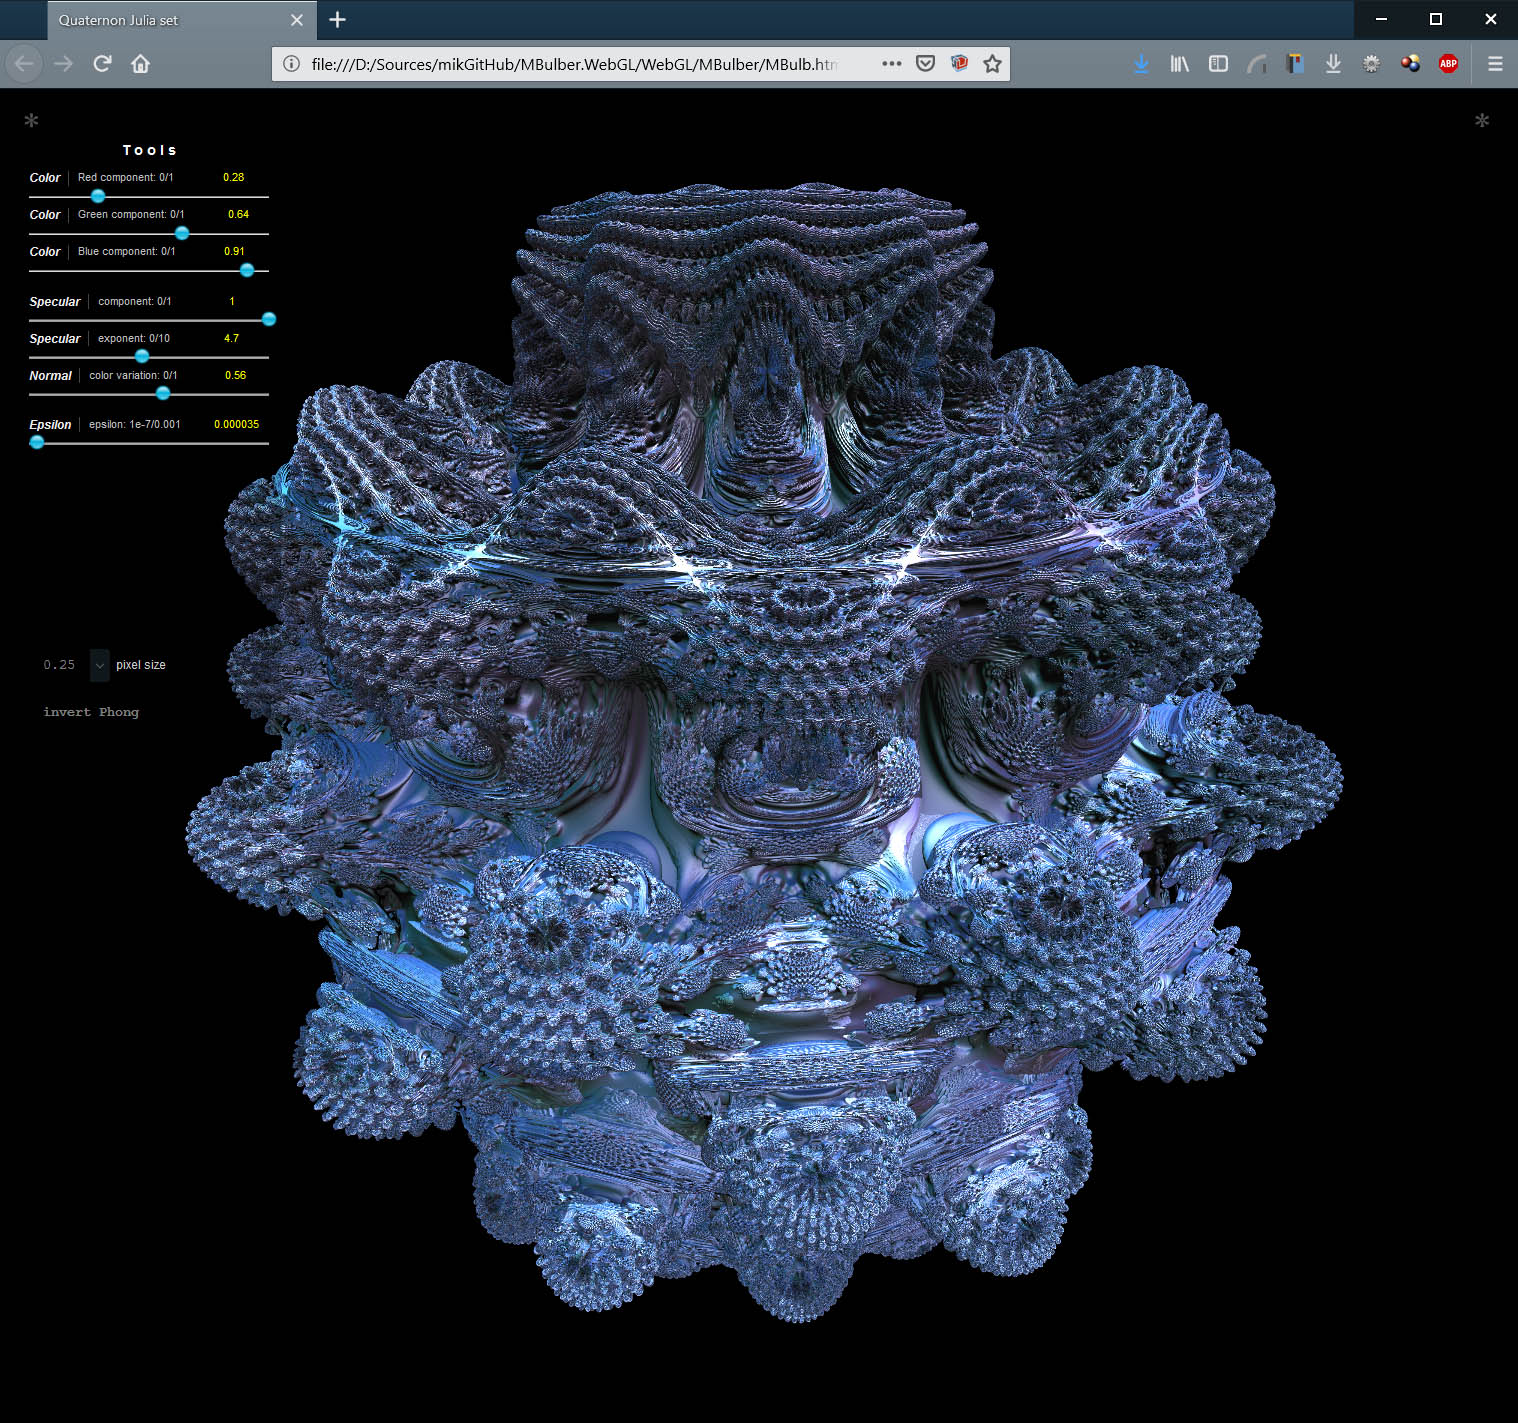
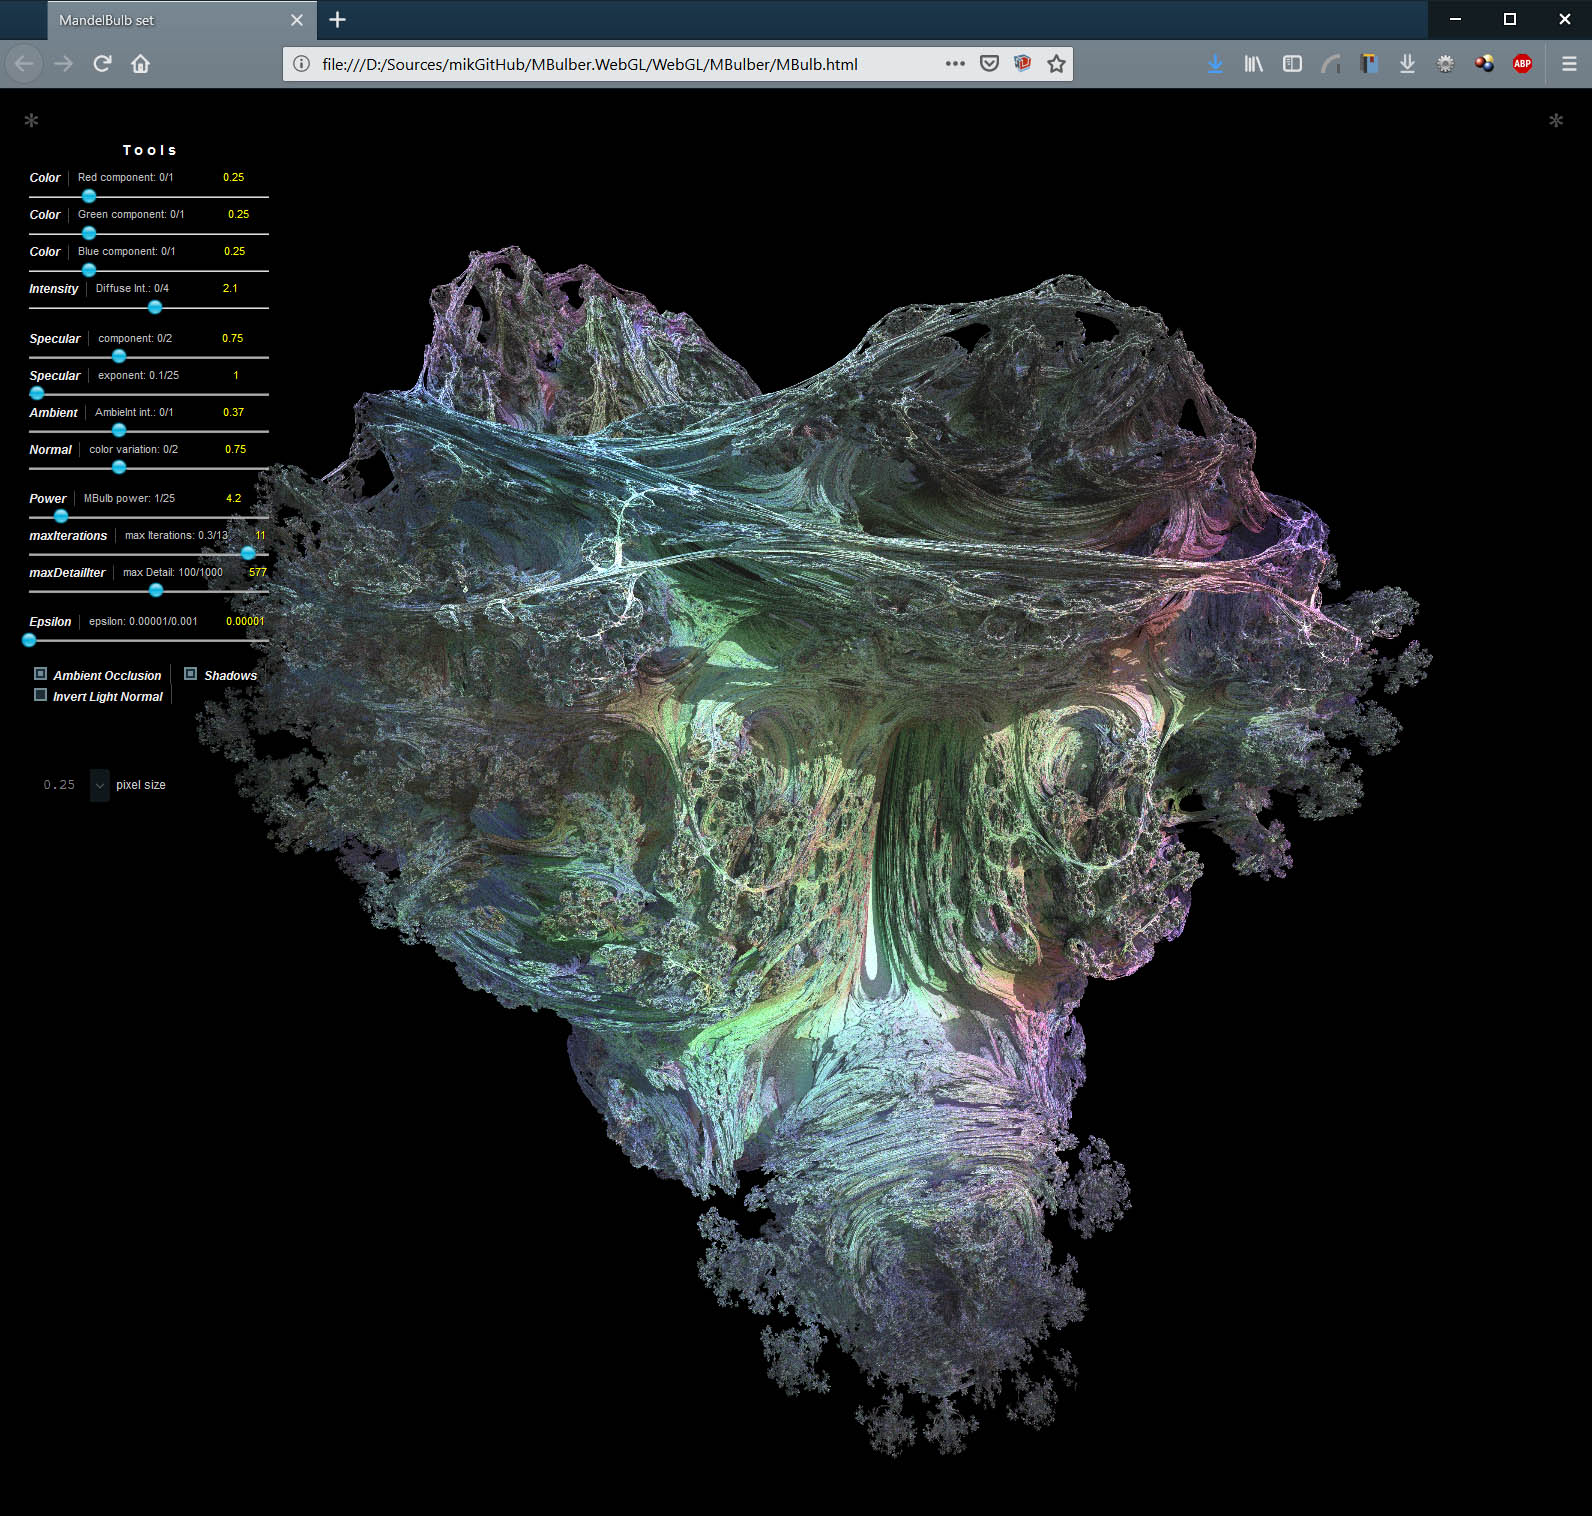
Added some useful variables settings

diff --git a/WebGL/MBulber/MBulb.html b/WebGL/MBulber/MBulb.html
@@ -1,27 +1,13 @@
 <html><head>
-    <title>Quaternon Julia set</title>
+    <title>MandelBulb set</title>
 
  
 <script id="shader-vs" type="x-shader/x-vertex"> 
-
   attribute vec2 vPos;
   void main(void) {
   gl_Position = vec4(vPos, 0., 1.);
 }
 
-/*
-attribute vec4 vPos;
-void main(void) 
-{
-  gl_Position = vPos;
-} 
- */
-/*
-
-void main() {
-    gl_Position = gl_Vertex;
-}
-*/
 </script> 
 
 
@@ -63,15 +49,15 @@ void main() {
                         "lightR",
                         "lightG",
                         "lightB",
+                        "diffIntensity",                        
                         "specularComponent",
                         "specularExponent",
+                        "ambientLight",
+                        "shadowDarkness",
                         "normalComponent",
-/*
-                        "Qx",
-                        "Qy",
-                        "Qz",
-                        "Qw",
-*/
+                        "Power",                        
+                        "maxIterations",
+                        "maxDetailIter",
                         "epsilon"
                        ];
 
@@ -149,13 +135,6 @@ var controls = [];
 function render(isFullRender)
 {
     if(typeof(isFullRender) === "undefined") isFullRender = false;
-/*
-    ctxGL.uniform3f(ctxGL.getUniformLocation(progM, "vA"), 1,0,0);
-    ctxGL.uniform3f(ctxGL.getUniformLocation(progM, "vB"), 0,1,0);
-    ctxGL.uniform3f(ctxGL.getUniformLocation(progM, "vC"), 0,0,1);
-*/
-
-    //ctxGL.useProgram(progM);
 
     ctxGL.uniform3f(ctxGL.getUniformLocation(progM, "resolution"), canvasM.width, canvasM.height, canvasM.width/canvasM.height);
 
@@ -177,20 +156,17 @@ function render(isFullRender)
     mat3.multiply(world, world, mZoom);
     mat3.invert(world, world);
 
-    ctxGL.uniform3f(ctxGL.getUniformLocation(progM, "vA"), world[0], world[1],world[2]);
-    ctxGL.uniform3f(ctxGL.getUniformLocation(progM, "vB"), world[3], world[4],world[5]);
-    ctxGL.uniform3f(ctxGL.getUniformLocation(progM, "vC"), world[6], world[7], world[8]);
-
+    ctxGL.uniformMatrix3fv(ctxGL.getUniformLocation(progM, "Orientation"), false, world);
 
     var vLight = vec3.fromValues(3, 3, 3);
     var mLightRot = mat3.create();
     rightArcBall.rotation(mLightRot);
-    mat3.invert(mLightRot, mLightRot);
+    //mat3.invert(mLightRot, mLightRot);
 
 
     mat3.mulVec3(vLight, mLightRot, vLight);
 
-    ctxGL.uniform3f(ctxGL.getUniformLocation(progM, "Light"), vLight[0], vLight[1], vLight[1]);
+    ctxGL.uniform3f(ctxGL.getUniformLocation(progM, "Light"), vLight[0], vLight[1], vLight[2]);
 
     //document.getElementById("coordsTxt").textContent = mLightRot[0] + ", " + mLightRot[1] + ", " + mLightRot[2] +"\n" + mLightRot[3] + ", " + mLightRot[4] + ", " + mLightRot[5] +"\n" +mLightRot[6] + ", " + mLightRot[7] + ", " + mLightRot[8] ;
 
@@ -262,11 +238,22 @@ function hideTools()
 
 function togglePhong()
 {
-    phongMethod *= -1;
+    phongMethod = document.getElementById('phongCheck').checked ? 1 : -1;
     render();
 
 }
 
+function toggleAO()
+{
+    useAO = document.getElementById('aoCheck').checked;
+    render();
+}
+
+function toggleShadow()
+{
+    useShadow = document.getElementById('shadowCheck').checked;
+    render();
+}
 
 function webGLStart() {
 
@@ -316,6 +303,9 @@ function webGLStart() {
         //controls[i].oV.innerHTML = controls[i].value;
     }
 
+    document.getElementById('aoCheck').checked = useAO;
+    document.getElementById('shadowCheck').checked = useShadow;
+    document.getElementById('phongCheck').checked = phongMethod == -1 ? false : true;
 
 
     window.addEventListener("resize", onWindowsResize, false);
@@ -437,82 +427,97 @@ function webGLStart() {
                 <div class="bar" title="Click to move here"></div>
                 <div class="slider" title=""></div>
                </dd>
+               <dt>Intensity</dt>
+               <dd class="title">Diffuse Int.</dd>
+               <dd>0.0</dd><dd>4.0</dd><dd>1.0</dd><dd>2</dd>
+               <dd class="control">
+                <div class="bar" title="Click to move here"></div>
+                <div class="slider" title=""></div>
+               </dd>
                <p></p>
 
                <dt>Specular</dt>
                <dd class="title">component</dd>
-               <dd>0.0</dd><dd>1.0</dd><dd>.5</dd><dd>2</dd>
+               <dd>0.0</dd><dd>2.0</dd><dd>.75</dd><dd>2</dd>
                <dd class="control">
                 <div class="bar" title="Click to move here"></div>
                 <div class="slider" title=""></div>
                </dd>
                <dt>Specular</dt>
                <dd class="title">exponent</dd>
-               <dd>0.0</dd><dd>10.0</dd><dd>1.0</dd><dd>2</dd>
+               <dd>0.1</dd><dd>25.0</dd><dd>1.0</dd><dd>2</dd>
+               <dd class="control">
+                <div class="bar" title="Click to move here"></div>
+                <div class="slider" title=""></div>
+               </dd>
+               <dt>Ambient</dt>
+               <dd class="title">Ambielnt int.</dd>
+               <dd>0.0</dd><dd>1.0</dd><dd>.1</dd><dd>2</dd>
+               <dd class="control">
+                <div class="bar" title="Click to move here"></div>
+                <div class="slider" title=""></div>
+               </dd>
+               <dt>Shadows</dt>
+               <dd class="title">Darkness</dd>
+               <dd>0.0</dd><dd>1.0</dd><dd>.5</dd><dd>2</dd>
                <dd class="control">
                 <div class="bar" title="Click to move here"></div>
                 <div class="slider" title=""></div>
                </dd>
                <dt>Normal</dt>
                <dd class="title">color variation</dd>
-               <dd>0.0</dd><dd>1.0</dd><dd>.75</dd><dd>2</dd>
+               <dd>0.0</dd><dd>2.0</dd><dd>.75</dd><dd>2</dd>
                <dd class="control">
                 <div class="bar" title="Click to move here"></div>
                 <div class="slider" title=""></div>
                </dd>
                <p></p>
-<!--
-               <dt>Qx</dt>
-               <dd class="title">Qx</dd>
-               <dd>-1.0</dd><dd>1.0</dd><dd>-.65</dd><dd>2</dd>
+               <dt>Power</dt>
+               <dd class="title">MBulb power</dd>
+               <dd>1.0</dd><dd>25.0</dd><dd>12</dd><dd>1</dd>
                <dd class="control">
                 <div class="bar" title="Click to move here"></div>
-                <div class="slider"></div>
+                <div class="slider" title=""></div>
                </dd>
-               <dt>Qy</dt>
-               <dd class="title">Qy</dd>
-               <dd>-1.0</dd><dd>1.0</dd><dd>.4</dd><dd>2</dd>
+               <dt>maxIterations</dt>
+               <dd class="title">max Iterations</dd>
+               <dd>0.3</dd><dd>13.0</dd><dd>7</dd><dd>0</dd>
                <dd class="control">
                 <div class="bar" title="Click to move here"></div>
-                <div class="slider"></div>
+                <div class="slider" title=""></div>
                </dd>
-
-               <dt>Qz</dt>
-               <dd class="title">Qz</dd>
-               <dd>-1.0</dd><dd>1.0</dd><dd>.25</dd><dd>2</dd>
+               <dt>maxDetailIter</dt>
+               <dd class="title">max Detail</dd>
+               <dd>100.0</dd><dd>1000.0</dd><dd>250.0</dd><dd>0</dd>
                <dd class="control">
                 <div class="bar" title="Click to move here"></div>
-                <div class="slider"></div>
+                <div class="slider" title=""></div>
                </dd>
-               <dt>Qw</dt>
-               <dd class="title">Qw</dd>
-               <dd>-1.0</dd><dd>1.0</dd><dd>.05</dd><dd>2</dd>
+               <p></p>
+               <dt>Epsilon</dt>
+               <dd class="title">epsilon</dd>
+               <dd>.00001</dd><dd>.001</dd><dd>0.0001</dd><dd>7</dd>
                <dd class="control">
                 <div class="bar" title="Click to move here"></div>
                 <div class="slider"></div>
                </dd>
                <p></p>
--->               
-               <dt>Epsilon</dt>
-               <dd class="title">epsilon</dd>
-               <dd>.0000001</dd><dd>.001</dd><dd>0.0001</dd><dd>7</dd>
-               <dd class="control">
-                <div class="bar" title="Click to move here"></div>
-                <div class="slider"></div>
-               </dd>   
-
-          </dl>
+               <dt>
+               <input type="checkbox" id="aoCheck" onchange="toggleAO()"></input> Ambient Occlusion
+               </dt>
+               <dt>
+               <input type="checkbox" id="shadowCheck" onchange="toggleShadow()"></input> Shadows
+               </dt>
+               <dt>
+                <input type="checkbox" id="phongCheck" onchange="togglePhong()"></input> Invert Light Normal
+                </dt>
+            </dl>
         
     </div>
 
     <div id="cmbScreen">
-        <select id="screenDef"  onchange="onResize()"></select> pixel size 
+        <select id="screenDef"  onchange="onResize()"></select> pixel subdivision 
     </div>
-
-    <div id="editTxt">
-        <button onclick="togglePhong()">invert Phong</button>
-    </div>
-
 
 </div>
 

diff --git a/jsLib/tools.css b/jsLib/tools.css
@@ -72,7 +72,7 @@
                 background-color: rgba(0, 0, 0, 0.2);
                 display:none;
                 width:220;
-                height:500;
+                height:600;
                 position:absolute;
                 color: rgba(255,255,255,1);
                 border: 1 white solid;

diff --git a/Readme.md b/Readme.md
@@ -1,7 +1,11 @@
 # WebGL MandelBulber Ray Marching 3D rendering
 
-### WebGL MandelBulber Ray Marching 3D rendering 
-
+WebGL MandelBulber Ray Marching 3D rendering with the following features:
+- light (blinn-phong) and shadows
+- ambient occlusion
+- subpixel subdivision
+- level of details (epsilon)
+- auto-progressive step of accuracy.
 
 ![](https://raw.githubusercontent.com/BrutPitt/wglMandelBulber/master/screenShots/mbulb.jpg)
 
